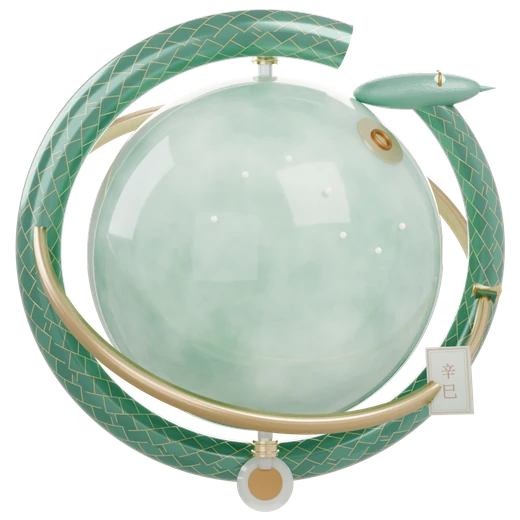
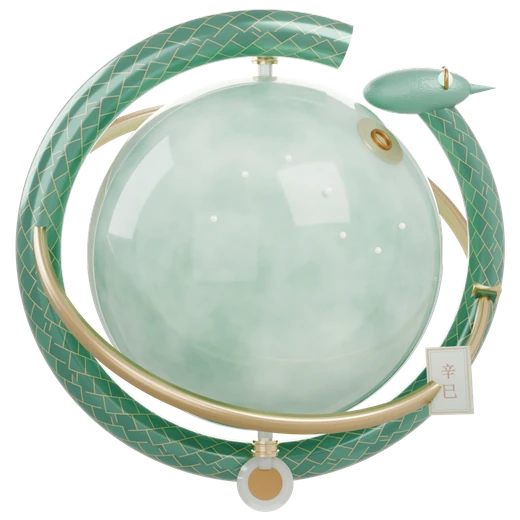
fix(jade): 蛇眼移出头部椭球、鳞片凸起降到嵌线级，重新渲染首页主视觉

Changed region(s): [[0.6769, 0.1231, 0.9231, 0.2462]]

diff --git a/src/scripts/jade/build-jade.ts b/src/scripts/jade/build-jade.ts
@@ -207,7 +207,7 @@ export function buildJadeModel(options: { quality?: 'high' | 'low' } = {}): Jade
   const skullGeo = new THREE.SphereGeometry(0.152, hi ? 48 : 24, hi ? 36 : 18);
   const skull = new THREE.Mesh(skullGeo, bodyMat);
   // 蛇头不能是扁球：横向再拉长、竖向压薄、宽度收窄，吻部才有探出感
-  skull.scale.set(2.35, 0.70, 0.92);
+  skull.scale.set(2.0, 0.88, 1.0);
   skull.name = 'serpent-skull';
   head.add(skull);
 
@@ -253,16 +253,16 @@ export function buildJadeModel(options: { quality?: 'high' | 'low' } = {}): Jade
   });
   eyeMat.name = 'mat-eye';
   for (const side of [1, -1]) {
-    const eye = new THREE.Mesh(new THREE.SphereGeometry(0.033, 20, 16), eyeMat);
+    const eye = new THREE.Mesh(new THREE.SphereGeometry(0.042, 20, 16), eyeMat);
     eye.name = 'serpent-eye-' + (side > 0 ? 'l' : 'r');
-    eye.position.set(0.125, 0.058, 0.088 * side);
+    eye.position.set(0.155, 0.064, 0.108 * side);
     head.add(eye);
     const socket = new THREE.Mesh(
-      new THREE.TorusGeometry(0.04, 0.011, 10, 24),
+      new THREE.TorusGeometry(0.05, 0.013, 10, 24),
       new THREE.MeshStandardMaterial({ color: new THREE.Color('#b8874a'), roughness: 0.3, metalness: 0.9 }),
     );
     socket.name = 'serpent-eye-ring-' + (side > 0 ? 'l' : 'r');
-    socket.position.copy(eye.position);
+    socket.position.copy(eye.position).multiplyScalar(1.02);
     socket.rotation.y = Math.PI / 2;
     head.add(socket);
   }

diff --git a/tools/blender/render-yuheng.py b/tools/blender/render-yuheng.py
@@ -102,8 +102,9 @@ def serpent_plates():
     nt.links.new(mp.outputs['Vector'], brick.inputs['Vector'])
     nt.links.new(brick.outputs['Color'], bs.inputs['Base Color'])
     bump = nt.nodes.new('ShaderNodeBump')
-    bump.inputs['Strength'].default_value = 0.55
-    bump.inputs['Distance'].default_value = 0.035
+    # 凸起过强会把鳞片读成竹编/藤编，改为以颜色分片、只留极浅起伏
+    bump.inputs['Strength'].default_value = 0.12
+    bump.inputs['Distance'].default_value = 0.012
     nt.links.new(brick.outputs['Fac'], bump.inputs['Height'])
     nt.links.new(bump.outputs['Normal'], bs.inputs['Normal'])
     nt.links.new(bs.outputs['BSDF'], out.inputs['Surface'])
